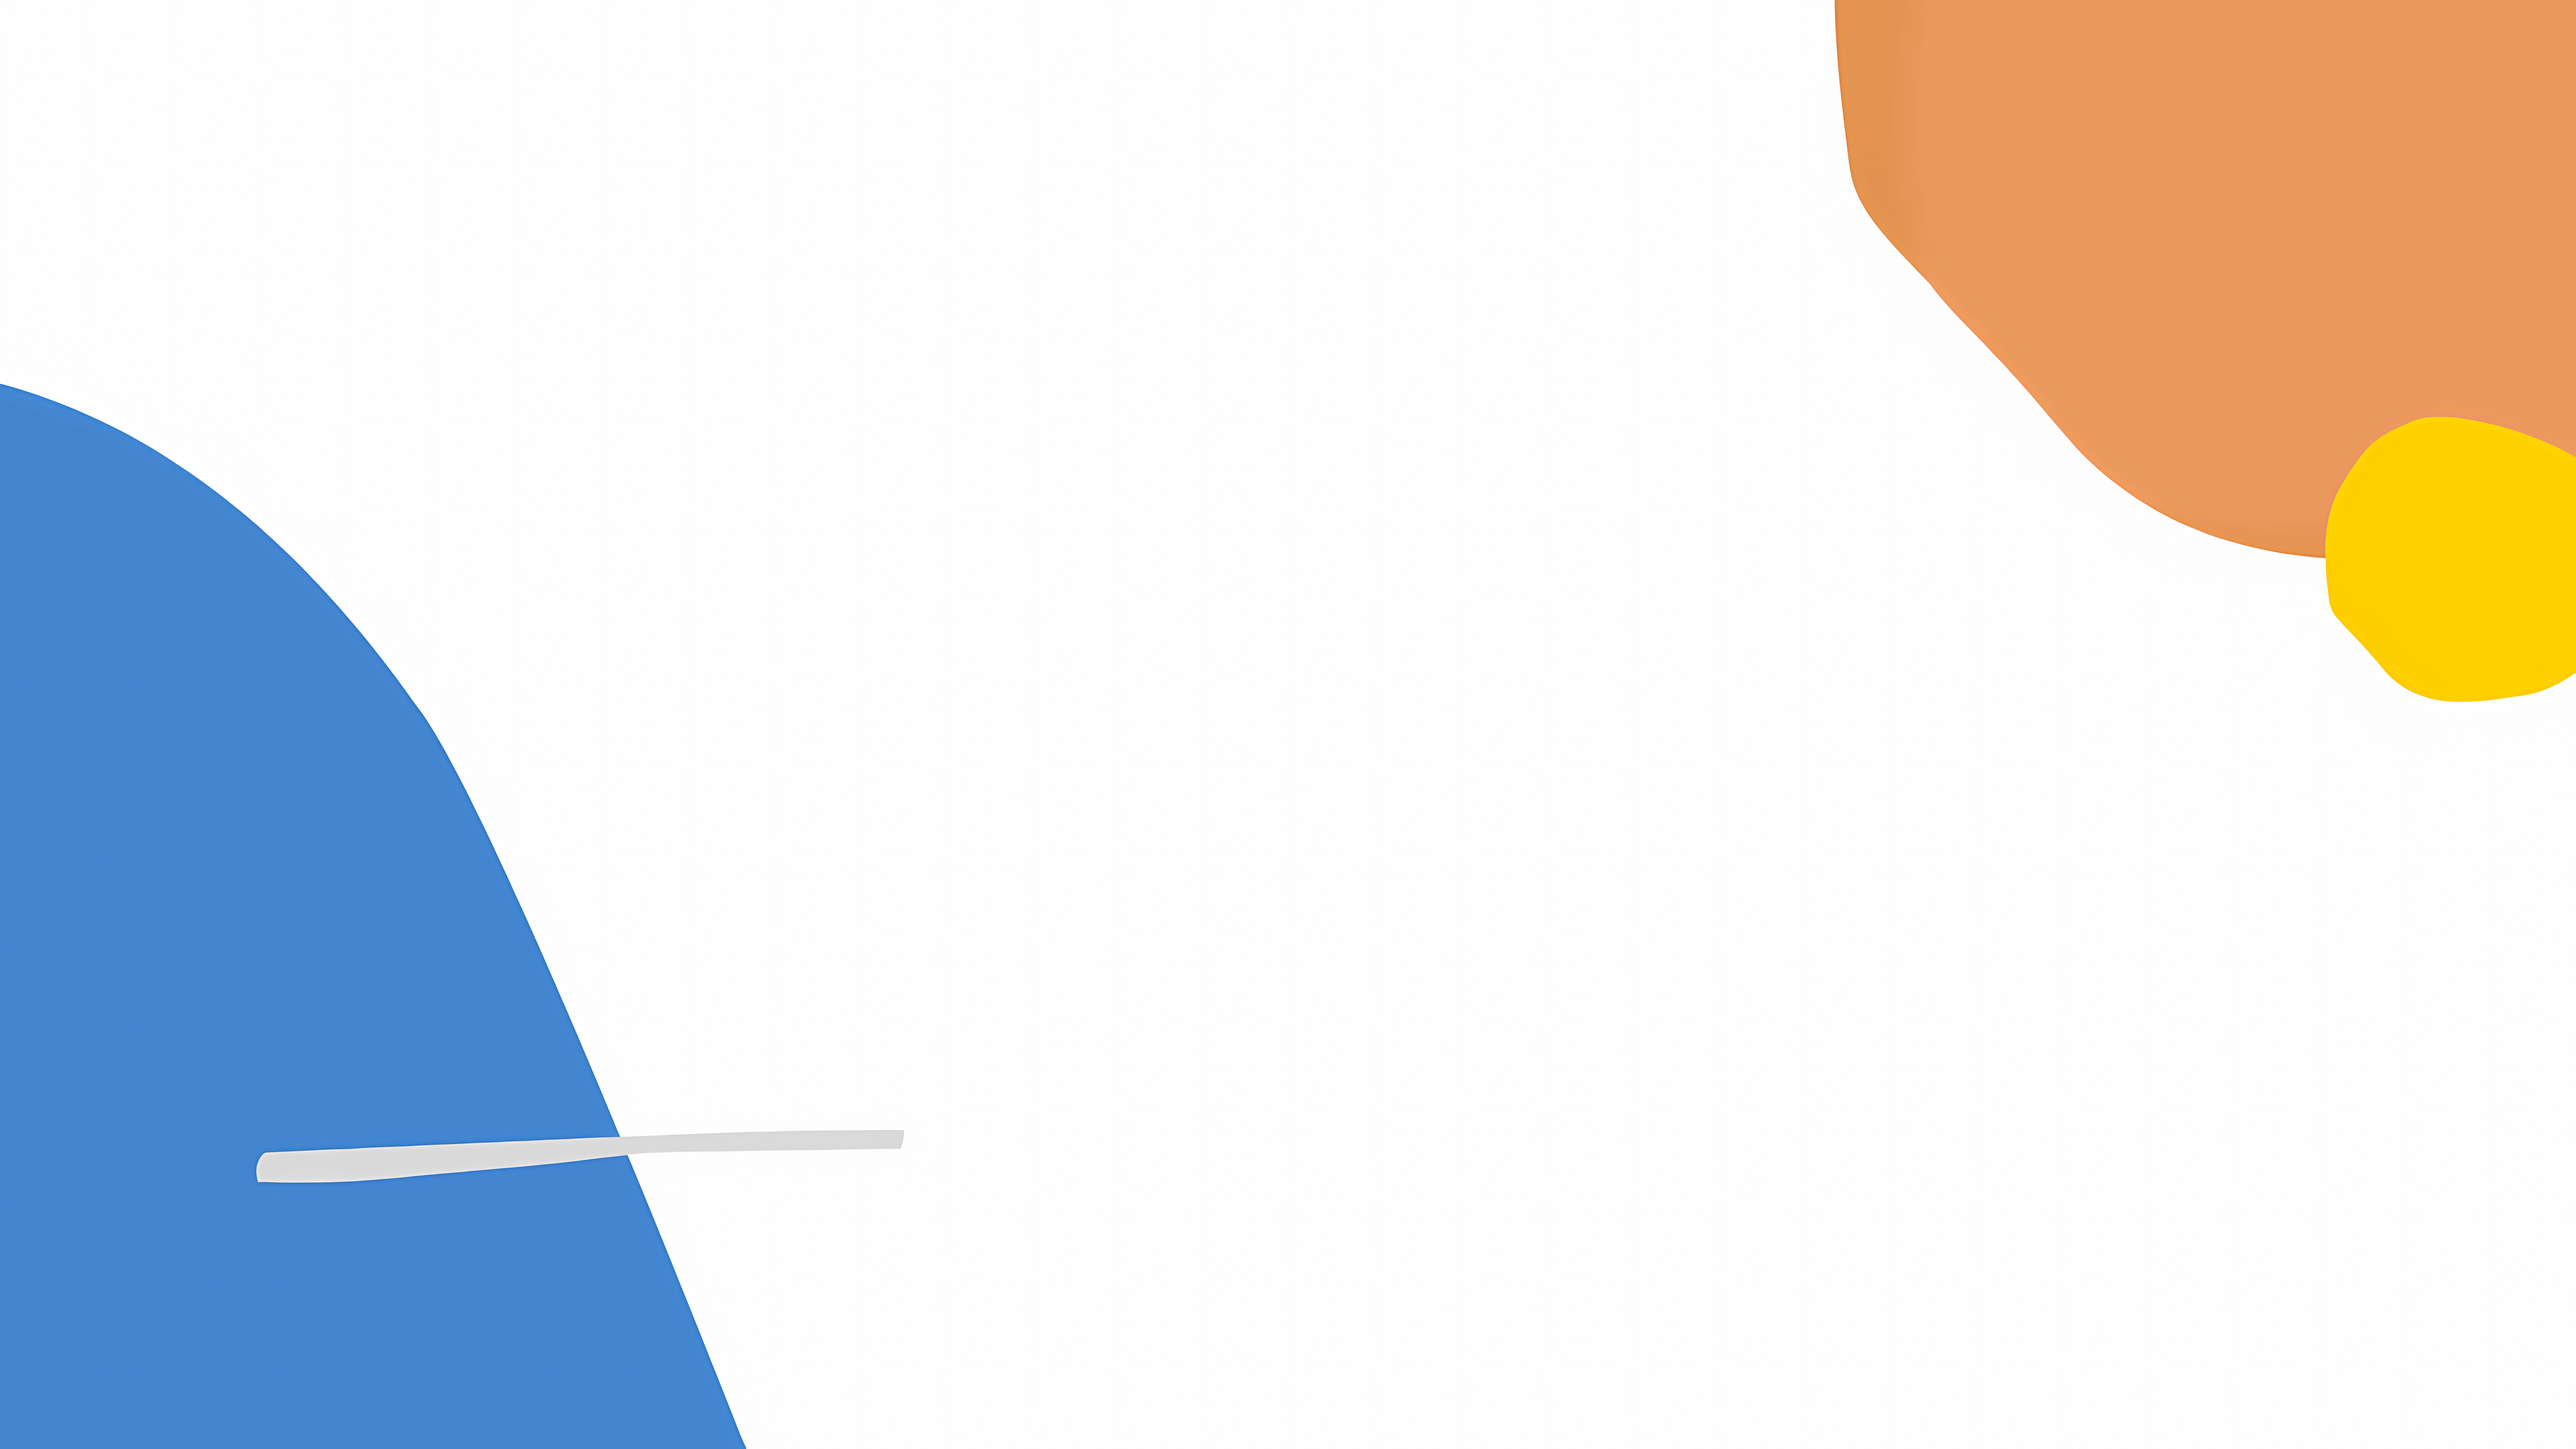
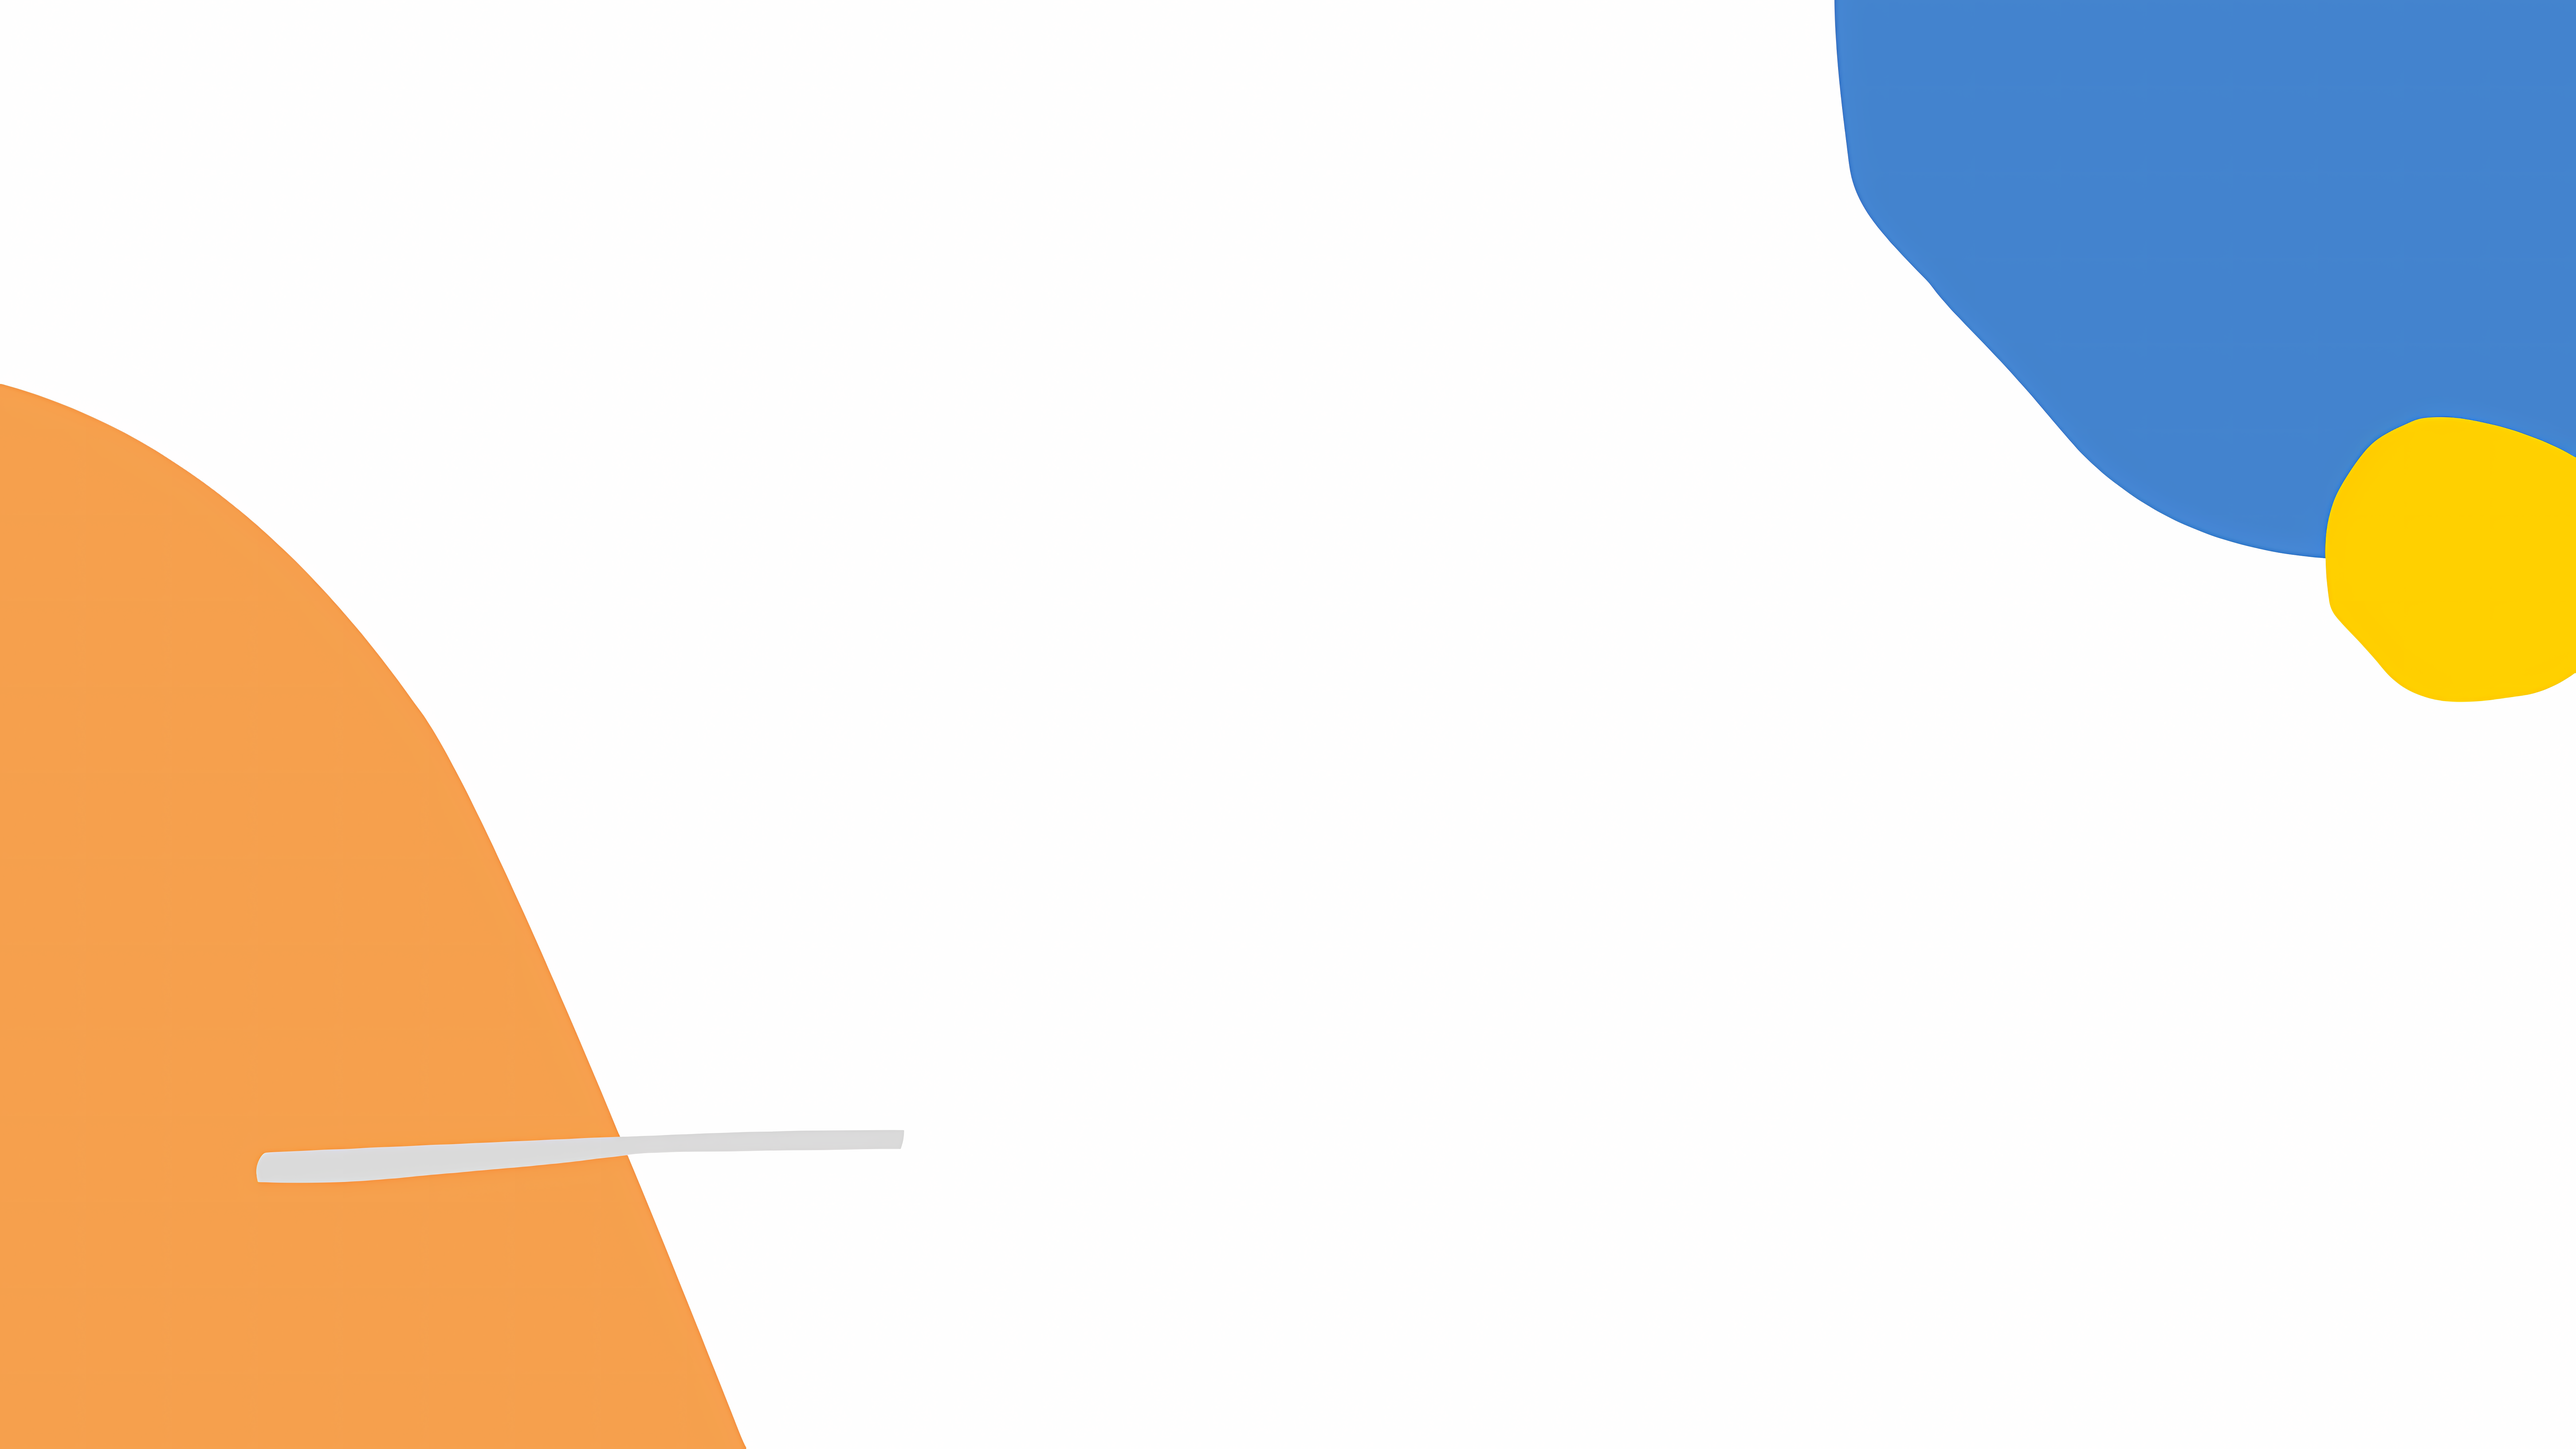
調整距離及圖片顏色

Changed region(s): [[0.0, 0.25, 0.3125, 1.0], [0.6875, 0.0, 1.0, 0.4062]]

diff --git a/src/sass/page/Weeee.scss b/src/sass/page/Weeee.scss
@@ -11,6 +11,7 @@
   main {
     max-width: 1280px;
     margin: 0 auto;
+padding-bottom: 50px;
 
 
     .logoWrapper {
@@ -33,12 +34,13 @@
       display: flex;
       justify-content: center;
       gap: 100px;
-      margin-top: 100px;
+      margin-top: 50px;
       align-items: center;
-      padding: 50px;
+      padding: 20px;
 
       @include m {
         flex-wrap: wrap;
+        gap: 50px;
       }
 
       .btn {
